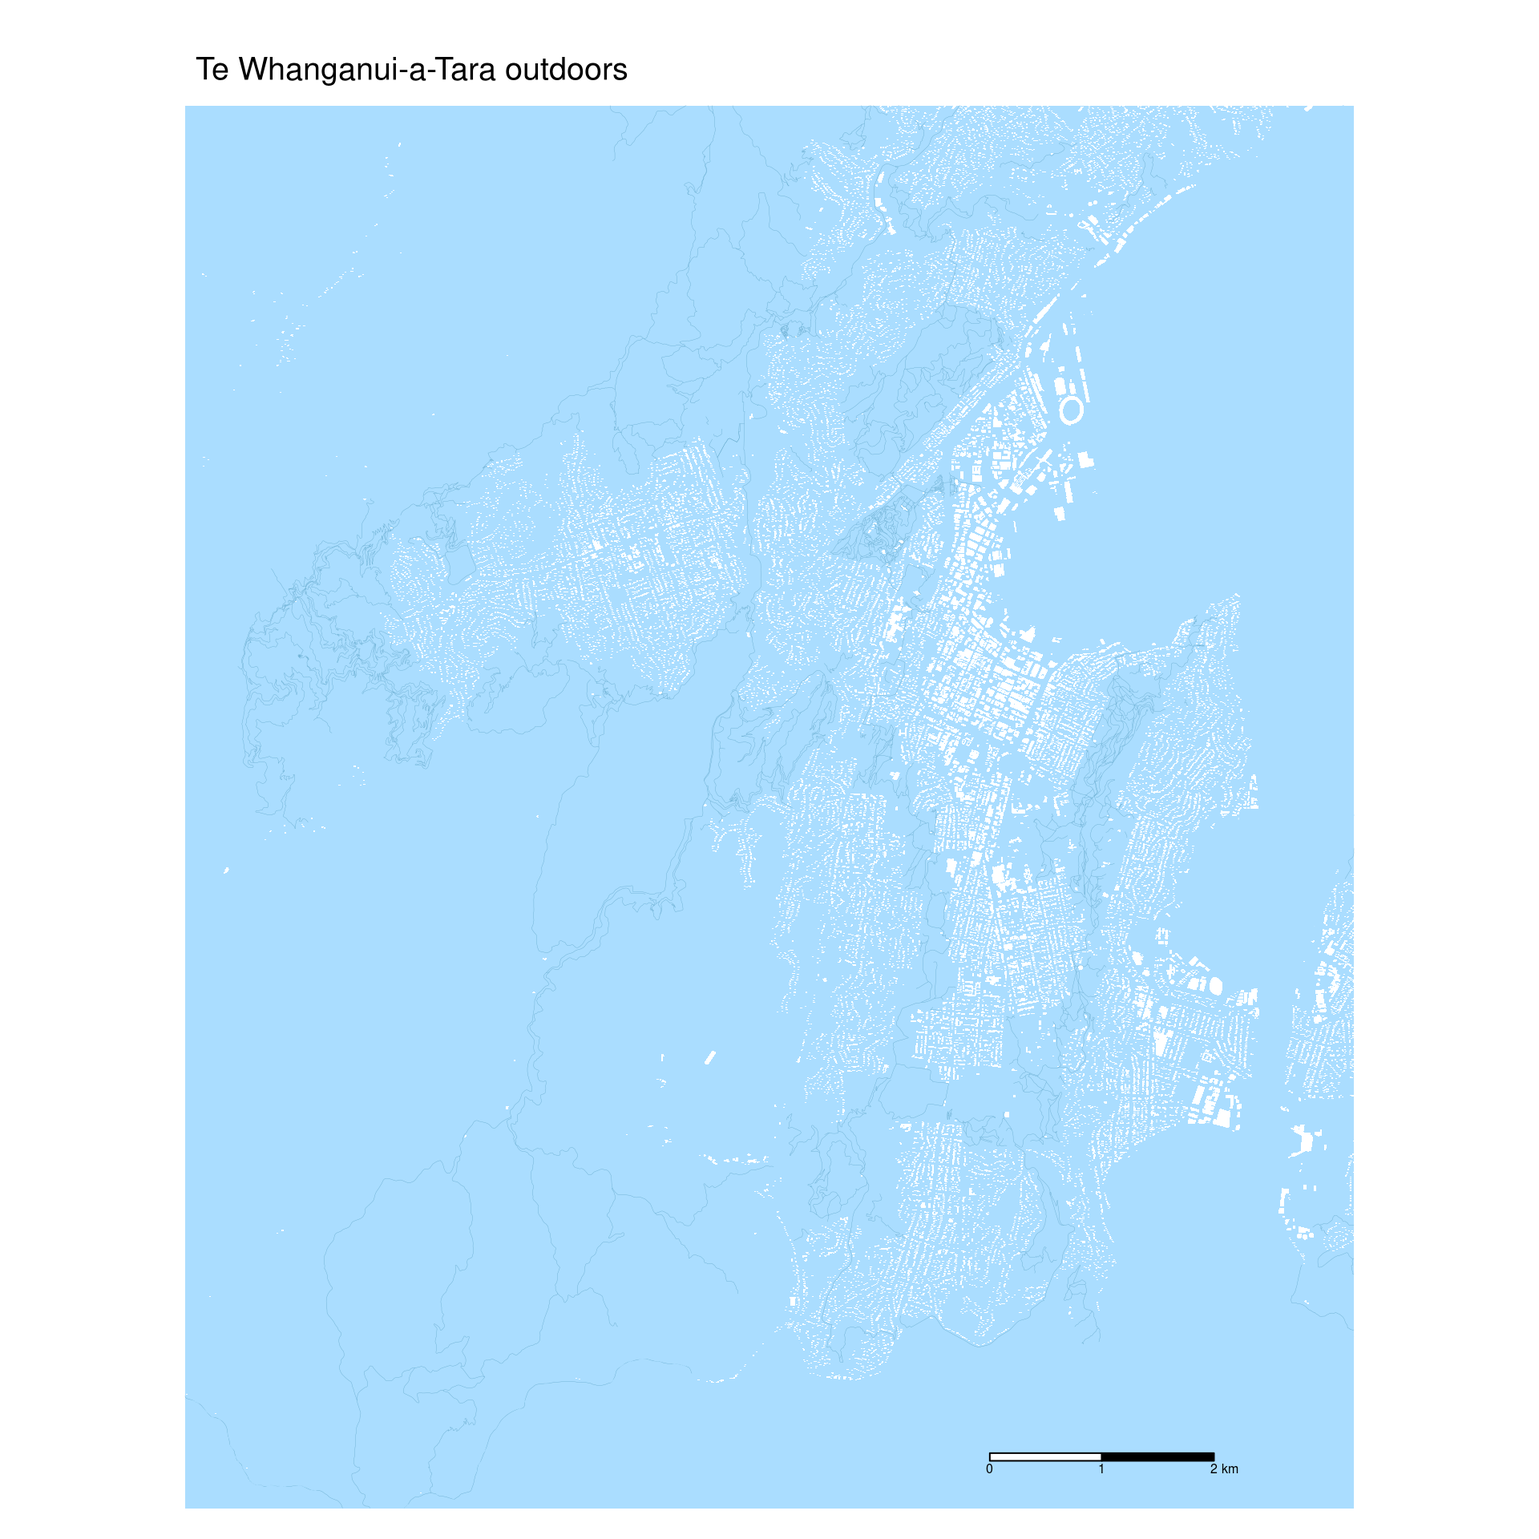
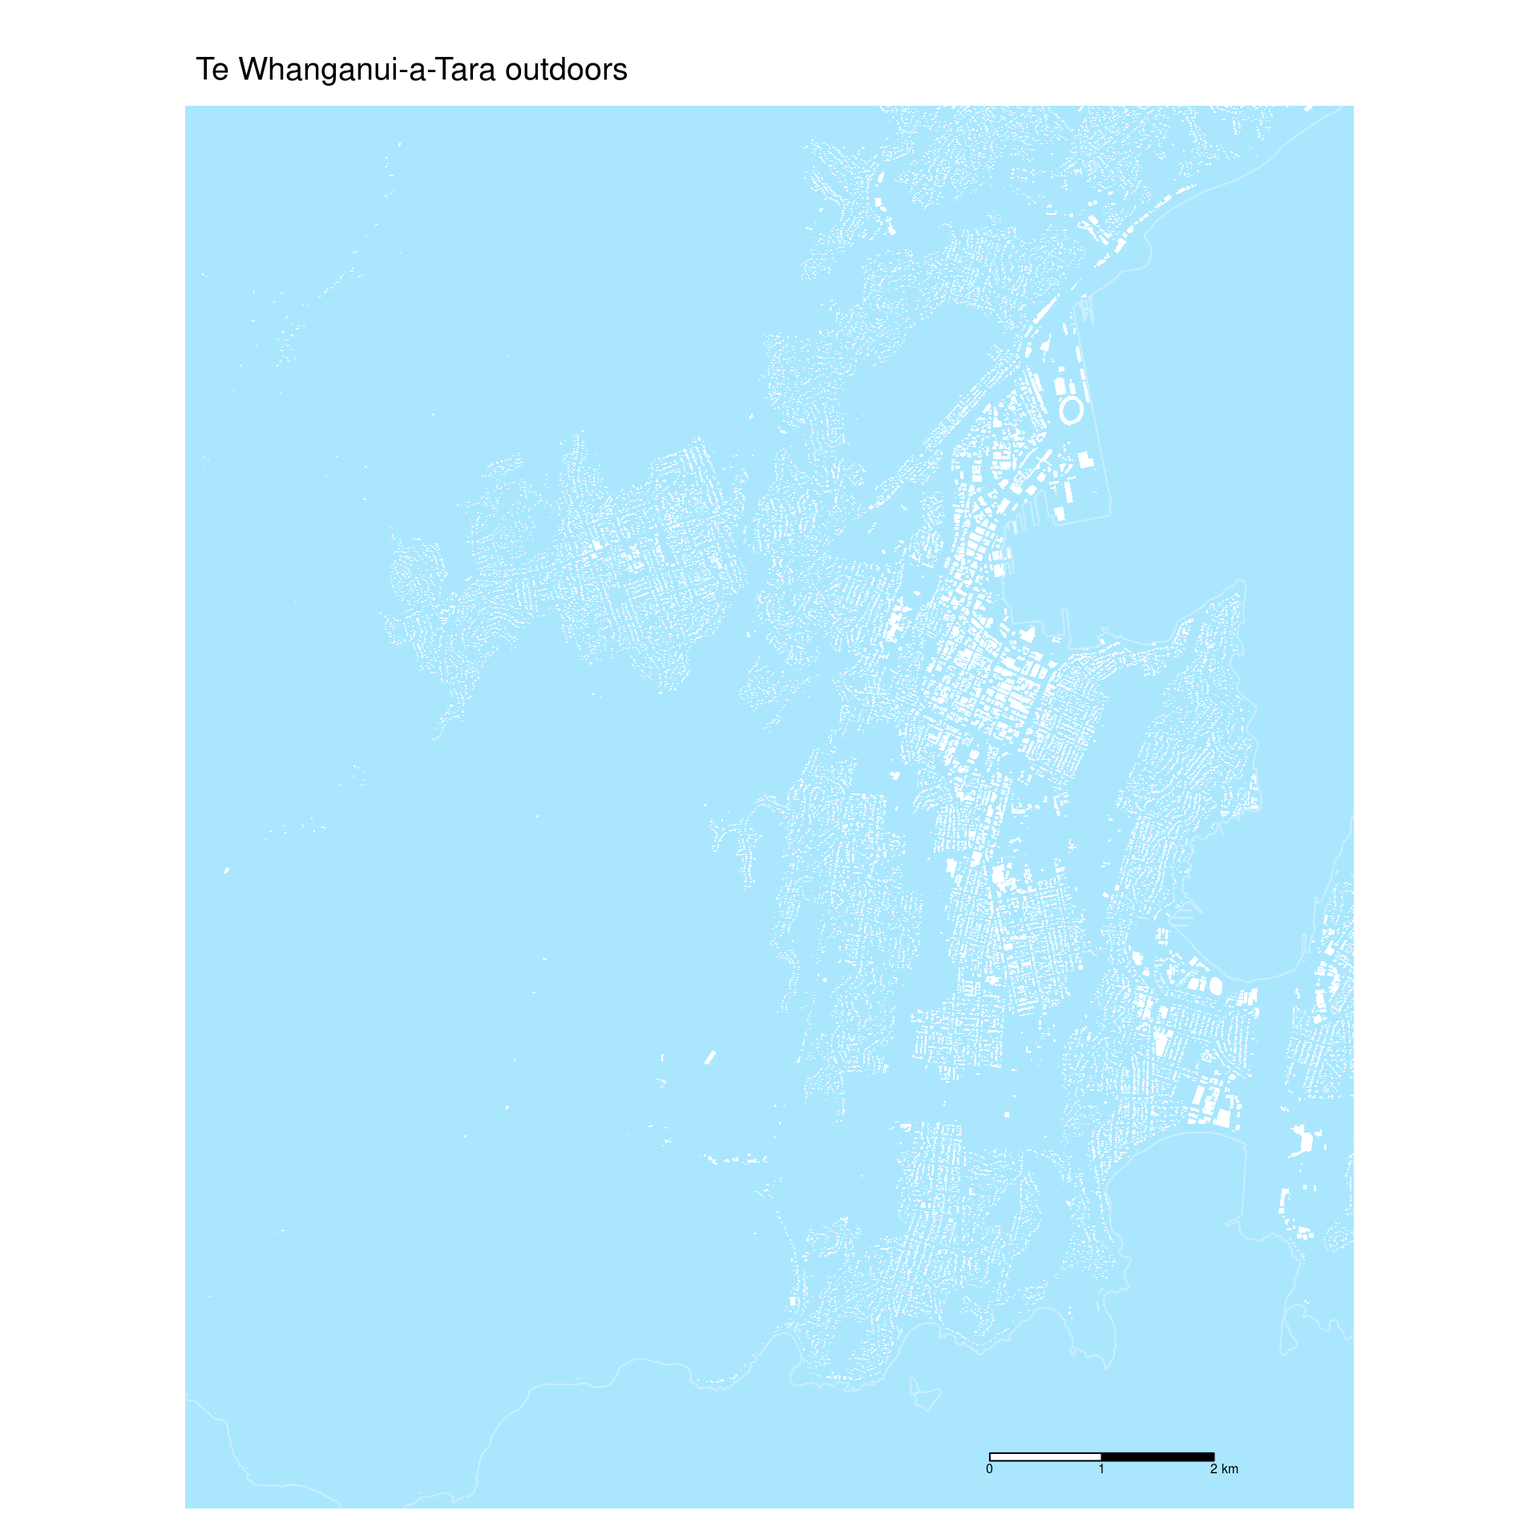
removed tracks

diff --git a/docs/maps/20-outdoors.html b/docs/maps/20-outdoors.html
@@ -327,8 +327,8 @@ pre > code.sourceCode > span > a:first-child::before { text-decoration: underlin
 <p>Horvath RJ. <a href="https://www.csun.edu/~rdavids/350fall08/350readings/Horvath%20Machine%20space.pdf">Machine space</a>. Geographical Review <strong>64</strong>(2) 167-188.</p>
 </blockquote>
 <p>but inverted. Of course, a lot of the ‘open’ space here is also machine space (given over to cars), but still, it’s fun to look a the built environment in this way.</p>
-<p>The buildings are from <a href="https://data.linz.govt.nz/layer/101290-nz-building-outlines/">Te Toitū Whenua - Land Information New Zealand</a>. Tracks are <a href="https://catalogue.data.govt.nz/dataset/wcc-tracks4">from Wellington City Council</a>.</p>
-<p>But the point is, that the buildings aren’t the spatial dataset here: <code>outdoors.gpkg</code> is a rectangle of the extent of the map with holes where the buildings (the ‘indoors’) are. So it’s a ‘outdoors’ polygon. You can’t really tell that from the map, but the white areas are the background colour showing through the holes.</p>
+<p>The buildings are from <a href="https://data.linz.govt.nz/layer/101290-nz-building-outlines/">Te Toitū Whenua - Land Information New Zealand</a>.</p>
+<p>But the buildings aren’t the spatial dataset here: <code>outdoors.gpkg</code> is a rectangle of the extent of the map with holes punched out where the buildings (the ‘indoors’) are. So it’s a ‘outdoors’ polygon. You can’t really tell that from the map, but the white areas are the background colour showing through the holes.</p>
 <section id="libraries" class="level2">
 <h2 class="anchored" data-anchor-id="libraries">Libraries</h2>
 <div class="cell" data-hash="20-outdoors_cache/html/unnamed-chunk-1_7350f84f1ce55e78e95e3c78ba112e6c">
@@ -342,12 +342,11 @@ pre > code.sourceCode > span > a:first-child::before { text-decoration: underlin
 </section>
 <section id="data-wrangling" class="level2">
 <h2 class="anchored" data-anchor-id="data-wrangling">Data wrangling</h2>
-<div class="cell" data-hash="20-outdoors_cache/html/unnamed-chunk-2_b3946c055c11ce166d72e5ee45f8f1d5">
+<div class="cell" data-hash="20-outdoors_cache/html/unnamed-chunk-2_63c67a77153f7a6a11c19f2c41b32f13">
 <details>
 <summary>Code</summary>
 <div class="sourceCode cell-code" id="cb2"><pre class="sourceCode r code-with-copy"><code class="sourceCode r"><span id="cb2-1"><a href="#cb2-1" aria-hidden="true" tabindex="-1"></a>outdoors <span class="ot">&lt;-</span> <span class="fu">st_read</span>(<span class="st">"data/outdoors.gpkg"</span>)</span>
-<span id="cb2-2"><a href="#cb2-2" aria-hidden="true" tabindex="-1"></a>tracks <span class="ot">&lt;-</span> <span class="fu">st_read</span>(<span class="st">"data/WCC_Tracks.geojson"</span>)</span>
-<span id="cb2-3"><a href="#cb2-3" aria-hidden="true" tabindex="-1"></a>coast <span class="ot">&lt;-</span> <span class="fu">st_read</span>(<span class="st">"data/welly-outdoors-coast.gpkg"</span>)</span></code><button title="Copy to Clipboard" class="code-copy-button"><i class="bi"></i></button></pre></div>
+<span id="cb2-2"><a href="#cb2-2" aria-hidden="true" tabindex="-1"></a>coast <span class="ot">&lt;-</span> <span class="fu">st_read</span>(<span class="st">"data/welly-outdoors-coast.gpkg"</span>)</span></code><button title="Copy to Clipboard" class="code-copy-button"><i class="bi"></i></button></pre></div>
 </details>
 </div>
 </section>
@@ -355,19 +354,17 @@ pre > code.sourceCode > span > a:first-child::before { text-decoration: underlin
 <h2 class="anchored" data-anchor-id="the-maps">The maps</h2>
 <section id="tmap" class="level3">
 <h3 class="anchored" data-anchor-id="tmap"><code>tmap</code></h3>
-<div class="cell" data-hash="20-outdoors_cache/html/unnamed-chunk-3_8e6613a5ffabd021dd91388975ef95b0">
+<div class="cell" data-hash="20-outdoors_cache/html/unnamed-chunk-3_0d5c79711b62ecb5358fe3de9a579fab">
 <div class="sourceCode cell-code" id="cb3"><pre class="sourceCode r code-with-copy"><code class="sourceCode r"><span id="cb3-1"><a href="#cb3-1" aria-hidden="true" tabindex="-1"></a><span class="fu">tm_shape</span>(outdoors) <span class="sc">+</span></span>
-<span id="cb3-2"><a href="#cb3-2" aria-hidden="true" tabindex="-1"></a>  <span class="fu">tm_fill</span>(<span class="at">fill =</span> <span class="st">"#aaddff"</span>) <span class="sc">+</span></span>
-<span id="cb3-3"><a href="#cb3-3" aria-hidden="true" tabindex="-1"></a>  <span class="fu">tm_shape</span>(tracks) <span class="sc">+</span></span>
-<span id="cb3-4"><a href="#cb3-4" aria-hidden="true" tabindex="-1"></a>  <span class="fu">tm_lines</span>(<span class="at">col =</span> <span class="st">"#66aacc"</span>, <span class="at">lwd =</span> <span class="fl">0.2</span>) <span class="sc">+</span></span>
-<span id="cb3-5"><a href="#cb3-5" aria-hidden="true" tabindex="-1"></a>  <span class="fu">tm_shape</span>(coast) <span class="sc">+</span></span>
-<span id="cb3-6"><a href="#cb3-6" aria-hidden="true" tabindex="-1"></a>  <span class="fu">tm_lines</span>(<span class="at">col =</span> <span class="st">"#aaddff"</span>, <span class="at">lwd =</span> <span class="fl">0.5</span>) <span class="sc">+</span></span>
-<span id="cb3-7"><a href="#cb3-7" aria-hidden="true" tabindex="-1"></a>  <span class="fu">tm_scalebar</span>() <span class="sc">+</span></span>
-<span id="cb3-8"><a href="#cb3-8" aria-hidden="true" tabindex="-1"></a>  <span class="fu">tm_title</span>(<span class="st">"Te Whanganui-a-Tara outdoors"</span>,</span>
-<span id="cb3-9"><a href="#cb3-9" aria-hidden="true" tabindex="-1"></a>    <span class="at">position =</span> <span class="fu">tm_pos_out</span>(</span>
-<span id="cb3-10"><a href="#cb3-10" aria-hidden="true" tabindex="-1"></a>      <span class="at">cell.h =</span> <span class="st">"center"</span>, <span class="at">cell.v =</span> <span class="st">"top"</span>,</span>
-<span id="cb3-11"><a href="#cb3-11" aria-hidden="true" tabindex="-1"></a>      <span class="at">pos.h =</span> <span class="st">"left"</span>, <span class="at">pos.v =</span> <span class="st">"top"</span>)) <span class="sc">+</span></span>
-<span id="cb3-12"><a href="#cb3-12" aria-hidden="true" tabindex="-1"></a>  <span class="fu">tm_layout</span>(<span class="at">frame =</span> <span class="cn">FALSE</span>, <span class="at">inner.margins =</span> <span class="fu">rep</span>(<span class="dv">0</span>, <span class="dv">4</span>))</span></code><button title="Copy to Clipboard" class="code-copy-button"><i class="bi"></i></button></pre></div>
+<span id="cb3-2"><a href="#cb3-2" aria-hidden="true" tabindex="-1"></a>  <span class="fu">tm_fill</span>(<span class="at">fill =</span> <span class="st">"#aae7ff"</span>) <span class="sc">+</span></span>
+<span id="cb3-3"><a href="#cb3-3" aria-hidden="true" tabindex="-1"></a>  <span class="fu">tm_shape</span>(coast) <span class="sc">+</span></span>
+<span id="cb3-4"><a href="#cb3-4" aria-hidden="true" tabindex="-1"></a>  <span class="fu">tm_lines</span>(<span class="at">col =</span> <span class="st">"#cceeff"</span>) <span class="sc">+</span></span>
+<span id="cb3-5"><a href="#cb3-5" aria-hidden="true" tabindex="-1"></a>  <span class="fu">tm_scalebar</span>() <span class="sc">+</span></span>
+<span id="cb3-6"><a href="#cb3-6" aria-hidden="true" tabindex="-1"></a>  <span class="fu">tm_title</span>(<span class="st">"Te Whanganui-a-Tara outdoors"</span>,</span>
+<span id="cb3-7"><a href="#cb3-7" aria-hidden="true" tabindex="-1"></a>    <span class="at">position =</span> <span class="fu">tm_pos_out</span>(</span>
+<span id="cb3-8"><a href="#cb3-8" aria-hidden="true" tabindex="-1"></a>      <span class="at">cell.h =</span> <span class="st">"center"</span>, <span class="at">cell.v =</span> <span class="st">"top"</span>,</span>
+<span id="cb3-9"><a href="#cb3-9" aria-hidden="true" tabindex="-1"></a>      <span class="at">pos.h =</span> <span class="st">"left"</span>, <span class="at">pos.v =</span> <span class="st">"top"</span>)) <span class="sc">+</span></span>
+<span id="cb3-10"><a href="#cb3-10" aria-hidden="true" tabindex="-1"></a>  <span class="fu">tm_layout</span>(<span class="at">frame =</span> <span class="cn">FALSE</span>, <span class="at">inner.margins =</span> <span class="fu">rep</span>(<span class="dv">0</span>, <span class="dv">4</span>))</span></code><button title="Copy to Clipboard" class="code-copy-button"><i class="bi"></i></button></pre></div>
 <div class="cell-output-display">
 <div class="quarto-figure quarto-figure-center">
 <figure class="figure">
@@ -380,21 +377,19 @@ pre > code.sourceCode > span > a:first-child::before { text-decoration: underlin
 </section>
 <section id="ggplot2" class="level2">
 <h2 class="anchored" data-anchor-id="ggplot2"><code>ggplot2</code></h2>
-<div class="cell" data-hash="20-outdoors_cache/html/unnamed-chunk-4_913531659d3b7d78414057cd7dff09b3">
+<div class="cell" data-hash="20-outdoors_cache/html/unnamed-chunk-4_bfdc10aa8e25f03400e337eb1b67bf32">
 <div class="sourceCode cell-code" id="cb4"><pre class="sourceCode r code-with-copy"><code class="sourceCode r"><span id="cb4-1"><a href="#cb4-1" aria-hidden="true" tabindex="-1"></a><span class="fu">library</span>(ggspatial)</span>
 <span id="cb4-2"><a href="#cb4-2" aria-hidden="true" tabindex="-1"></a></span>
 <span id="cb4-3"><a href="#cb4-3" aria-hidden="true" tabindex="-1"></a><span class="fu">ggplot</span>() <span class="sc">+</span></span>
-<span id="cb4-4"><a href="#cb4-4" aria-hidden="true" tabindex="-1"></a>  <span class="fu">geom_sf</span>(<span class="at">data =</span> outdoors, <span class="at">fill =</span> <span class="st">"#aaddff"</span>, <span class="at">linewidth =</span> <span class="dv">0</span>) <span class="sc">+</span></span>
-<span id="cb4-5"><a href="#cb4-5" aria-hidden="true" tabindex="-1"></a>  <span class="fu">geom_sf</span>(<span class="at">data =</span> tracks, <span class="at">colour =</span> <span class="st">"#66aacc"</span>, </span>
-<span id="cb4-6"><a href="#cb4-6" aria-hidden="true" tabindex="-1"></a>          <span class="at">linewidth =</span> <span class="fl">0.2</span> <span class="sc">*</span> <span class="fl">25.4</span> <span class="sc">/</span> <span class="fl">72.27</span>) <span class="sc">+</span></span>
-<span id="cb4-7"><a href="#cb4-7" aria-hidden="true" tabindex="-1"></a>  <span class="fu">geom_sf</span>(<span class="at">data =</span> coast, <span class="at">colour =</span> <span class="st">"#aaddff"</span>,</span>
-<span id="cb4-8"><a href="#cb4-8" aria-hidden="true" tabindex="-1"></a>          <span class="at">linewidth =</span> <span class="fl">0.5</span> <span class="sc">*</span> <span class="fl">25.4</span> <span class="sc">/</span> <span class="fl">72.27</span>) <span class="sc">+</span></span>
-<span id="cb4-9"><a href="#cb4-9" aria-hidden="true" tabindex="-1"></a>  <span class="fu">coord_sf</span>(<span class="at">xlim =</span> <span class="fu">st_bbox</span>(outdoors)[<span class="fu">c</span>(<span class="dv">1</span>, <span class="dv">3</span>)],</span>
-<span id="cb4-10"><a href="#cb4-10" aria-hidden="true" tabindex="-1"></a>           <span class="at">ylim =</span> <span class="fu">st_bbox</span>(outdoors)[<span class="fu">c</span>(<span class="dv">2</span>, <span class="dv">4</span>)],</span>
-<span id="cb4-11"><a href="#cb4-11" aria-hidden="true" tabindex="-1"></a>           <span class="at">expand =</span> <span class="cn">FALSE</span>) <span class="sc">+</span></span>
-<span id="cb4-12"><a href="#cb4-12" aria-hidden="true" tabindex="-1"></a>  <span class="fu">annotation_scale</span>() <span class="sc">+</span></span>
-<span id="cb4-13"><a href="#cb4-13" aria-hidden="true" tabindex="-1"></a>  <span class="fu">ggtitle</span>(<span class="st">"Te Whanganui-a-Tara outdoors"</span>) <span class="sc">+</span></span>
-<span id="cb4-14"><a href="#cb4-14" aria-hidden="true" tabindex="-1"></a>  <span class="fu">theme_void</span>()</span></code><button title="Copy to Clipboard" class="code-copy-button"><i class="bi"></i></button></pre></div>
+<span id="cb4-4"><a href="#cb4-4" aria-hidden="true" tabindex="-1"></a>  <span class="fu">geom_sf</span>(<span class="at">data =</span> outdoors, <span class="at">fill =</span> <span class="st">"#aae7ff"</span>, <span class="at">linewidth =</span> <span class="dv">0</span>) <span class="sc">+</span></span>
+<span id="cb4-5"><a href="#cb4-5" aria-hidden="true" tabindex="-1"></a>  <span class="fu">geom_sf</span>(<span class="at">data =</span> coast, <span class="at">colour =</span> <span class="st">"#cceeff"</span>,</span>
+<span id="cb4-6"><a href="#cb4-6" aria-hidden="true" tabindex="-1"></a>          <span class="at">linewidth =</span> <span class="fl">25.4</span> <span class="sc">/</span> <span class="fl">72.27</span>) <span class="sc">+</span></span>
+<span id="cb4-7"><a href="#cb4-7" aria-hidden="true" tabindex="-1"></a>  <span class="fu">coord_sf</span>(<span class="at">xlim =</span> <span class="fu">st_bbox</span>(outdoors)[<span class="fu">c</span>(<span class="dv">1</span>, <span class="dv">3</span>)],</span>
+<span id="cb4-8"><a href="#cb4-8" aria-hidden="true" tabindex="-1"></a>           <span class="at">ylim =</span> <span class="fu">st_bbox</span>(outdoors)[<span class="fu">c</span>(<span class="dv">2</span>, <span class="dv">4</span>)],</span>
+<span id="cb4-9"><a href="#cb4-9" aria-hidden="true" tabindex="-1"></a>           <span class="at">expand =</span> <span class="cn">FALSE</span>) <span class="sc">+</span></span>
+<span id="cb4-10"><a href="#cb4-10" aria-hidden="true" tabindex="-1"></a>  <span class="fu">annotation_scale</span>() <span class="sc">+</span></span>
+<span id="cb4-11"><a href="#cb4-11" aria-hidden="true" tabindex="-1"></a>  <span class="fu">ggtitle</span>(<span class="st">"Te Whanganui-a-Tara outdoors"</span>) <span class="sc">+</span></span>
+<span id="cb4-12"><a href="#cb4-12" aria-hidden="true" tabindex="-1"></a>  <span class="fu">theme_void</span>()</span></code><button title="Copy to Clipboard" class="code-copy-button"><i class="bi"></i></button></pre></div>
 <div class="cell-output-display">
 <div class="quarto-figure quarto-figure-center">
 <figure class="figure">
@@ -654,7 +649,7 @@ window.document.addEventListener("DOMContentLoaded", function (event) {
   </div>
 </nav>
 </div> <!-- /content -->
-<script>var lightboxQuarto = GLightbox({"selector":".lightbox","openEffect":"zoom","closeEffect":"zoom","loop":true,"descPosition":"bottom"});</script>
+<script>var lightboxQuarto = GLightbox({"selector":".lightbox","descPosition":"bottom","loop":true,"openEffect":"zoom","closeEffect":"zoom"});</script>
 
 
 

diff --git a/docs/index.html b/docs/index.html
@@ -690,7 +690,7 @@ Spend no more than 5 minutes to prepare this map.
 </div>
 </a>
 </div>
-<div class="g-col-1" data-index="19" data-listing-file-modified-sort="1700421605787" data-listing-reading-time-sort="2">
+<div class="g-col-1" data-index="19" data-listing-file-modified-sort="1700422678612" data-listing-reading-time-sort="2">
 <a href="./maps/20-outdoors.html" class="quarto-grid-link">
 <div class="quarto-grid-item card h-100 card-left">
 <p class="card-img-top"><img src="maps/20-outdoors_files/figure-html/unnamed-chunk-3-1.png" style="height: 150px;"  class="thumbnail-image card-img"/></p>

diff --git a/docs/maps/01-points.html b/docs/maps/01-points.html
@@ -685,7 +685,7 @@ window.document.addEventListener("DOMContentLoaded", function (event) {
   </div>
 </nav>
 </div> <!-- /content -->
-<script>var lightboxQuarto = GLightbox({"descPosition":"bottom","openEffect":"zoom","selector":".lightbox","closeEffect":"zoom","loop":true});</script>
+<script>var lightboxQuarto = GLightbox({"openEffect":"zoom","closeEffect":"zoom","loop":true,"descPosition":"bottom","selector":".lightbox"});</script>
 
 
 

diff --git a/docs/maps/02-lines.html b/docs/maps/02-lines.html
@@ -647,7 +647,7 @@ window.document.addEventListener("DOMContentLoaded", function (event) {
   </div>
 </nav>
 </div> <!-- /content -->
-<script>var lightboxQuarto = GLightbox({"descPosition":"bottom","selector":".lightbox","openEffect":"zoom","loop":true,"closeEffect":"zoom"});</script>
+<script>var lightboxQuarto = GLightbox({"loop":true,"selector":".lightbox","openEffect":"zoom","descPosition":"bottom","closeEffect":"zoom"});</script>
 
 
 

diff --git a/docs/maps/03-polygons.html b/docs/maps/03-polygons.html
@@ -648,7 +648,7 @@ window.document.addEventListener("DOMContentLoaded", function (event) {
   </div>
 </nav>
 </div> <!-- /content -->
-<script>var lightboxQuarto = GLightbox({"descPosition":"bottom","closeEffect":"zoom","selector":".lightbox","openEffect":"zoom","loop":true});</script>
+<script>var lightboxQuarto = GLightbox({"loop":true,"closeEffect":"zoom","descPosition":"bottom","openEffect":"zoom","selector":".lightbox"});</script>
 
 
 

diff --git a/docs/maps/04-bad-map.html b/docs/maps/04-bad-map.html
@@ -656,7 +656,7 @@ window.document.addEventListener("DOMContentLoaded", function (event) {
   </div>
 </nav>
 </div> <!-- /content -->
-<script>var lightboxQuarto = GLightbox({"selector":".lightbox","closeEffect":"zoom","openEffect":"zoom","loop":true,"descPosition":"bottom"});</script>
+<script>var lightboxQuarto = GLightbox({"closeEffect":"zoom","selector":".lightbox","descPosition":"bottom","openEffect":"zoom","loop":true});</script>
 
 
 

diff --git a/docs/maps/05-analog-map.html b/docs/maps/05-analog-map.html
@@ -642,7 +642,7 @@ window.document.addEventListener("DOMContentLoaded", function (event) {
   </div>
 </nav>
 </div> <!-- /content -->
-<script>var lightboxQuarto = GLightbox({"loop":true,"descPosition":"bottom","openEffect":"zoom","selector":".lightbox","closeEffect":"zoom"});</script>
+<script>var lightboxQuarto = GLightbox({"selector":".lightbox","openEffect":"zoom","closeEffect":"zoom","descPosition":"bottom","loop":true});</script>
 
 
 

diff --git a/docs/maps/06-asia.html b/docs/maps/06-asia.html
@@ -656,7 +656,7 @@ window.document.addEventListener("DOMContentLoaded", function (event) {
   </div>
 </nav>
 </div> <!-- /content -->
-<script>var lightboxQuarto = GLightbox({"closeEffect":"zoom","descPosition":"bottom","loop":true,"openEffect":"zoom","selector":".lightbox"});</script>
+<script>var lightboxQuarto = GLightbox({"selector":".lightbox","loop":true,"descPosition":"bottom","closeEffect":"zoom","openEffect":"zoom"});</script>
 
 
 

diff --git a/docs/maps/07-navigation.html b/docs/maps/07-navigation.html
@@ -703,7 +703,7 @@ window.document.addEventListener("DOMContentLoaded", function (event) {
   </div>
 </nav>
 </div> <!-- /content -->
-<script>var lightboxQuarto = GLightbox({"openEffect":"zoom","loop":true,"selector":".lightbox","descPosition":"bottom","closeEffect":"zoom"});</script>
+<script>var lightboxQuarto = GLightbox({"openEffect":"zoom","descPosition":"bottom","selector":".lightbox","loop":true,"closeEffect":"zoom"});</script>
 
 
 

diff --git a/docs/maps/08-africa.html b/docs/maps/08-africa.html
@@ -648,7 +648,7 @@ window.document.addEventListener("DOMContentLoaded", function (event) {
   </div>
 </nav>
 </div> <!-- /content -->
-<script>var lightboxQuarto = GLightbox({"descPosition":"bottom","openEffect":"zoom","selector":".lightbox","loop":true,"closeEffect":"zoom"});</script>
+<script>var lightboxQuarto = GLightbox({"descPosition":"bottom","selector":".lightbox","loop":true,"closeEffect":"zoom","openEffect":"zoom"});</script>
 
 
 

diff --git a/docs/maps/09-hexes.html b/docs/maps/09-hexes.html
@@ -693,7 +693,7 @@ window.document.addEventListener("DOMContentLoaded", function (event) {
   </div>
 </nav>
 </div> <!-- /content -->
-<script>var lightboxQuarto = GLightbox({"openEffect":"zoom","loop":true,"descPosition":"bottom","closeEffect":"zoom","selector":".lightbox"});</script>
+<script>var lightboxQuarto = GLightbox({"descPosition":"bottom","closeEffect":"zoom","openEffect":"zoom","selector":".lightbox","loop":true});</script>
 
 
 

diff --git a/docs/maps/10-north-america.html b/docs/maps/10-north-america.html
@@ -644,7 +644,7 @@ window.document.addEventListener("DOMContentLoaded", function (event) {
   </div>
 </nav>
 </div> <!-- /content -->
-<script>var lightboxQuarto = GLightbox({"openEffect":"zoom","loop":true,"selector":".lightbox","closeEffect":"zoom","descPosition":"bottom"});</script>
+<script>var lightboxQuarto = GLightbox({"closeEffect":"zoom","openEffect":"zoom","loop":true,"descPosition":"bottom","selector":".lightbox"});</script>
 
 
 
